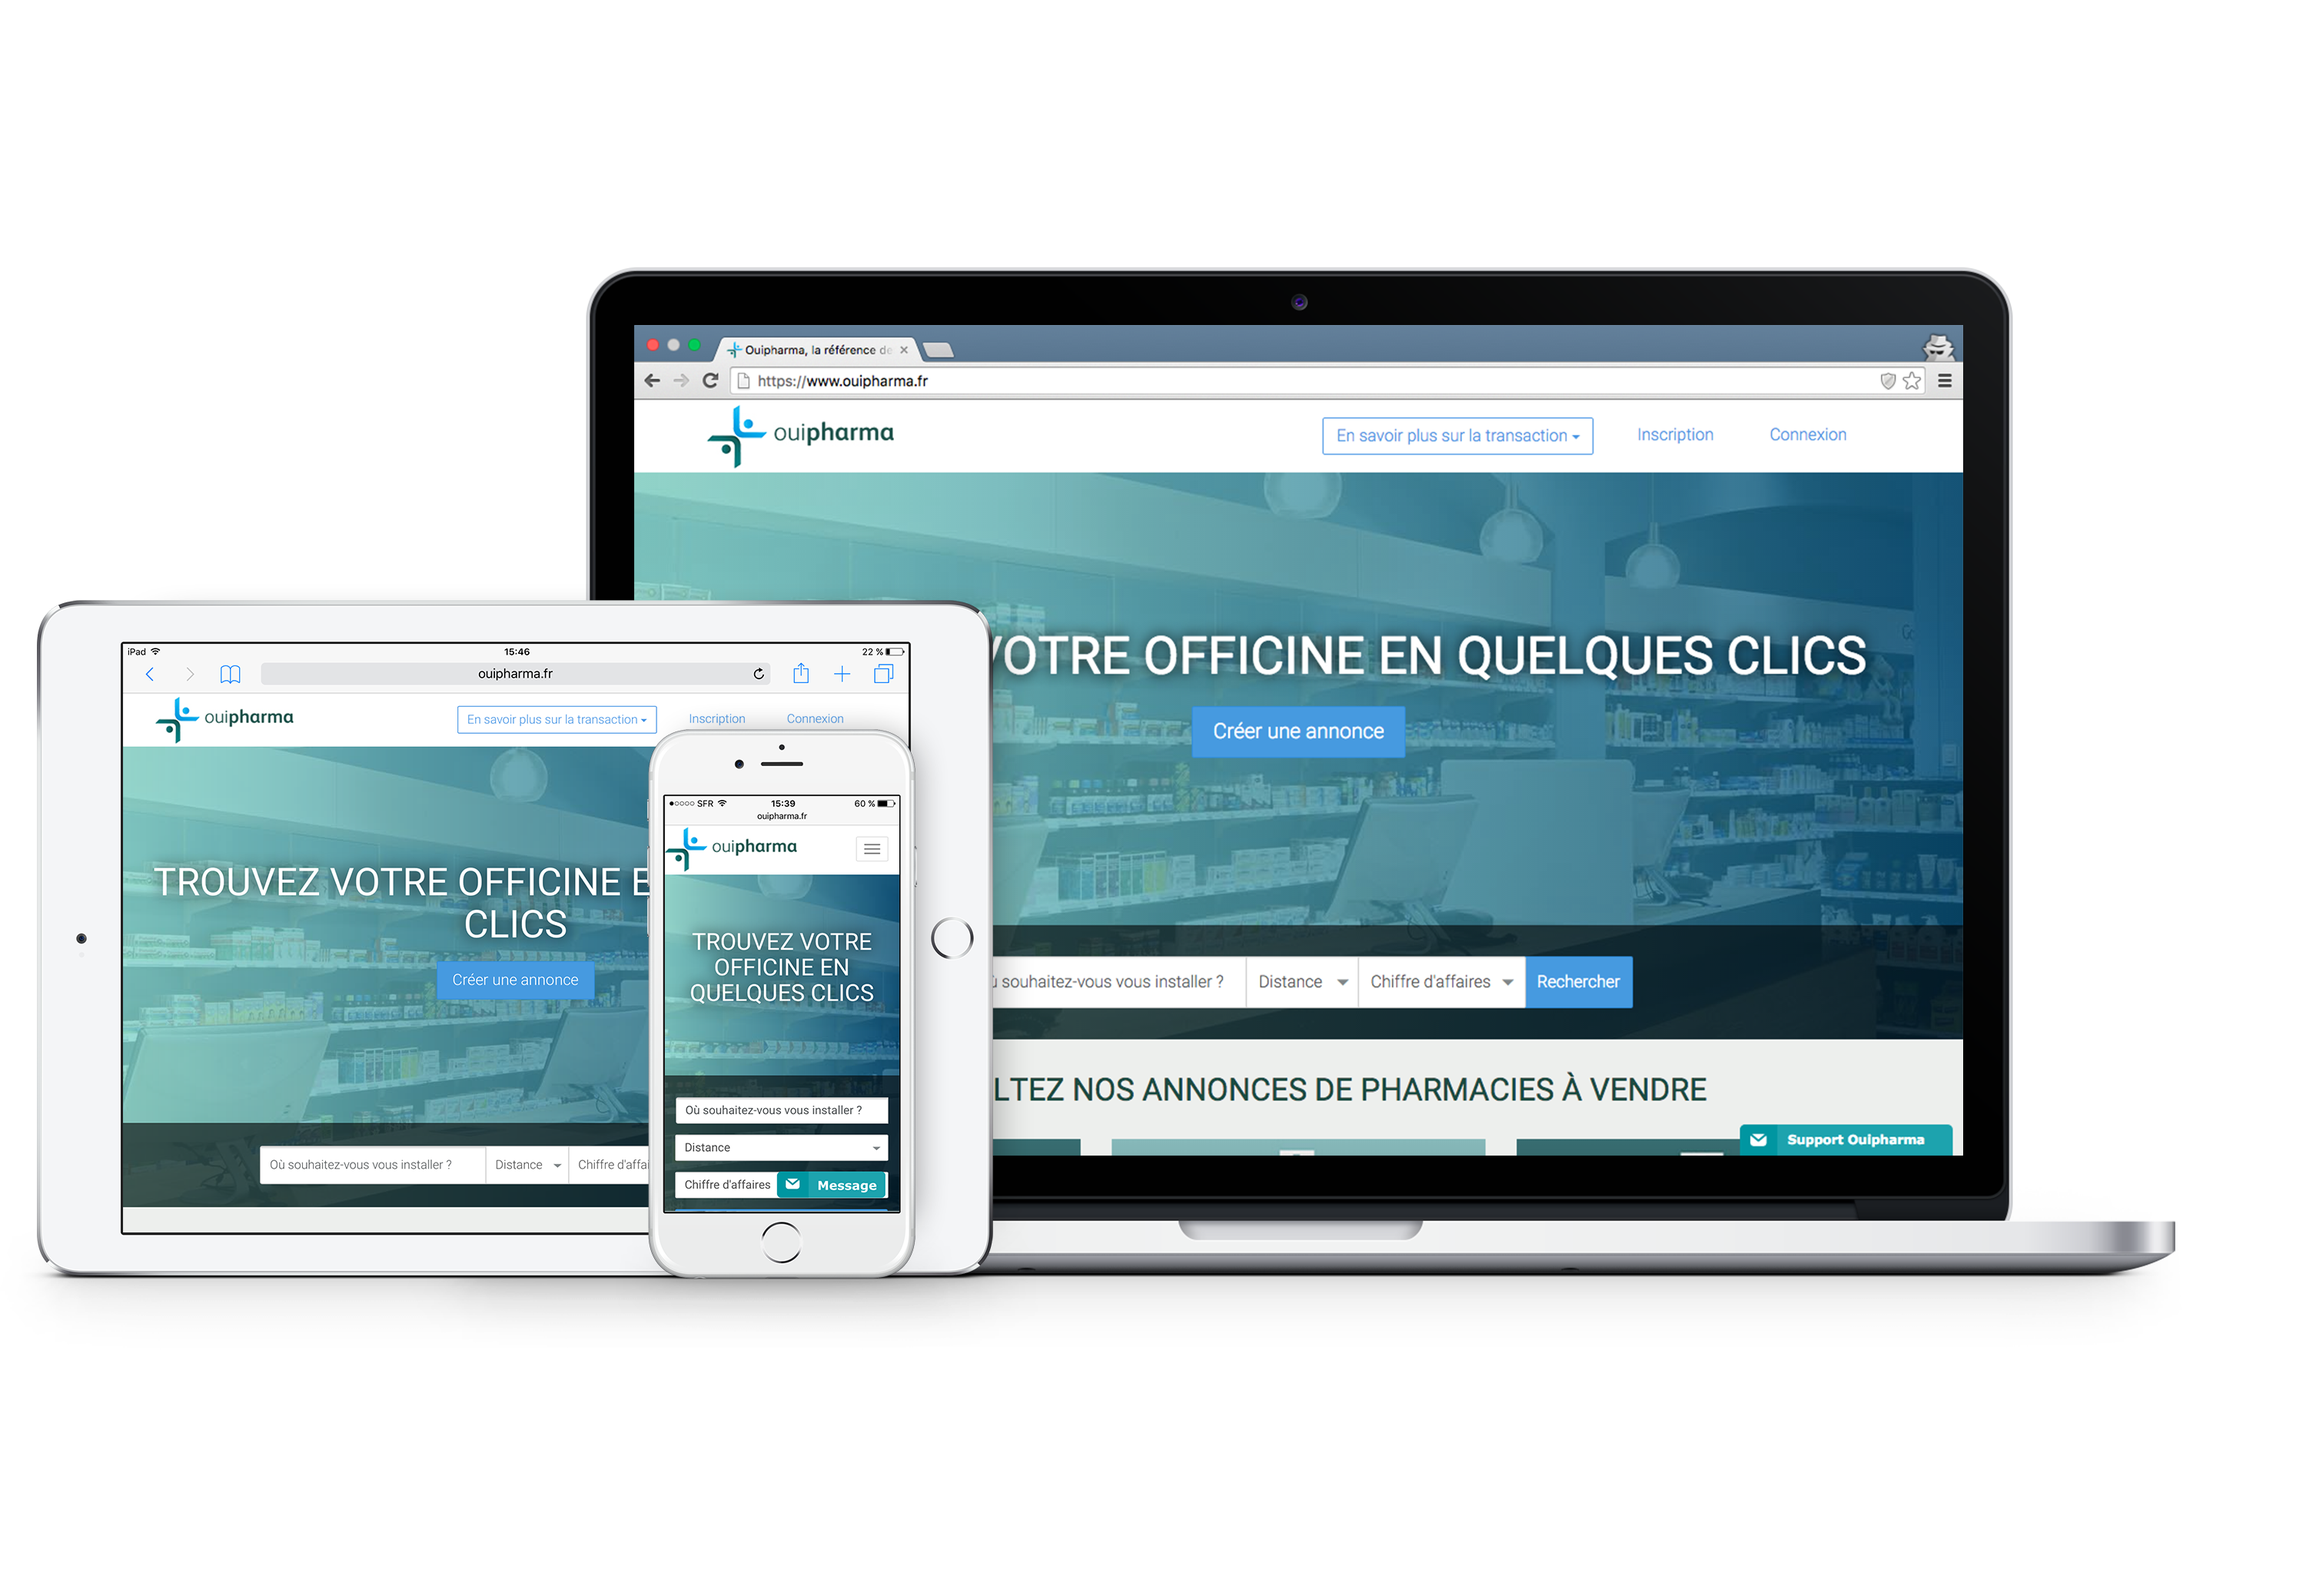
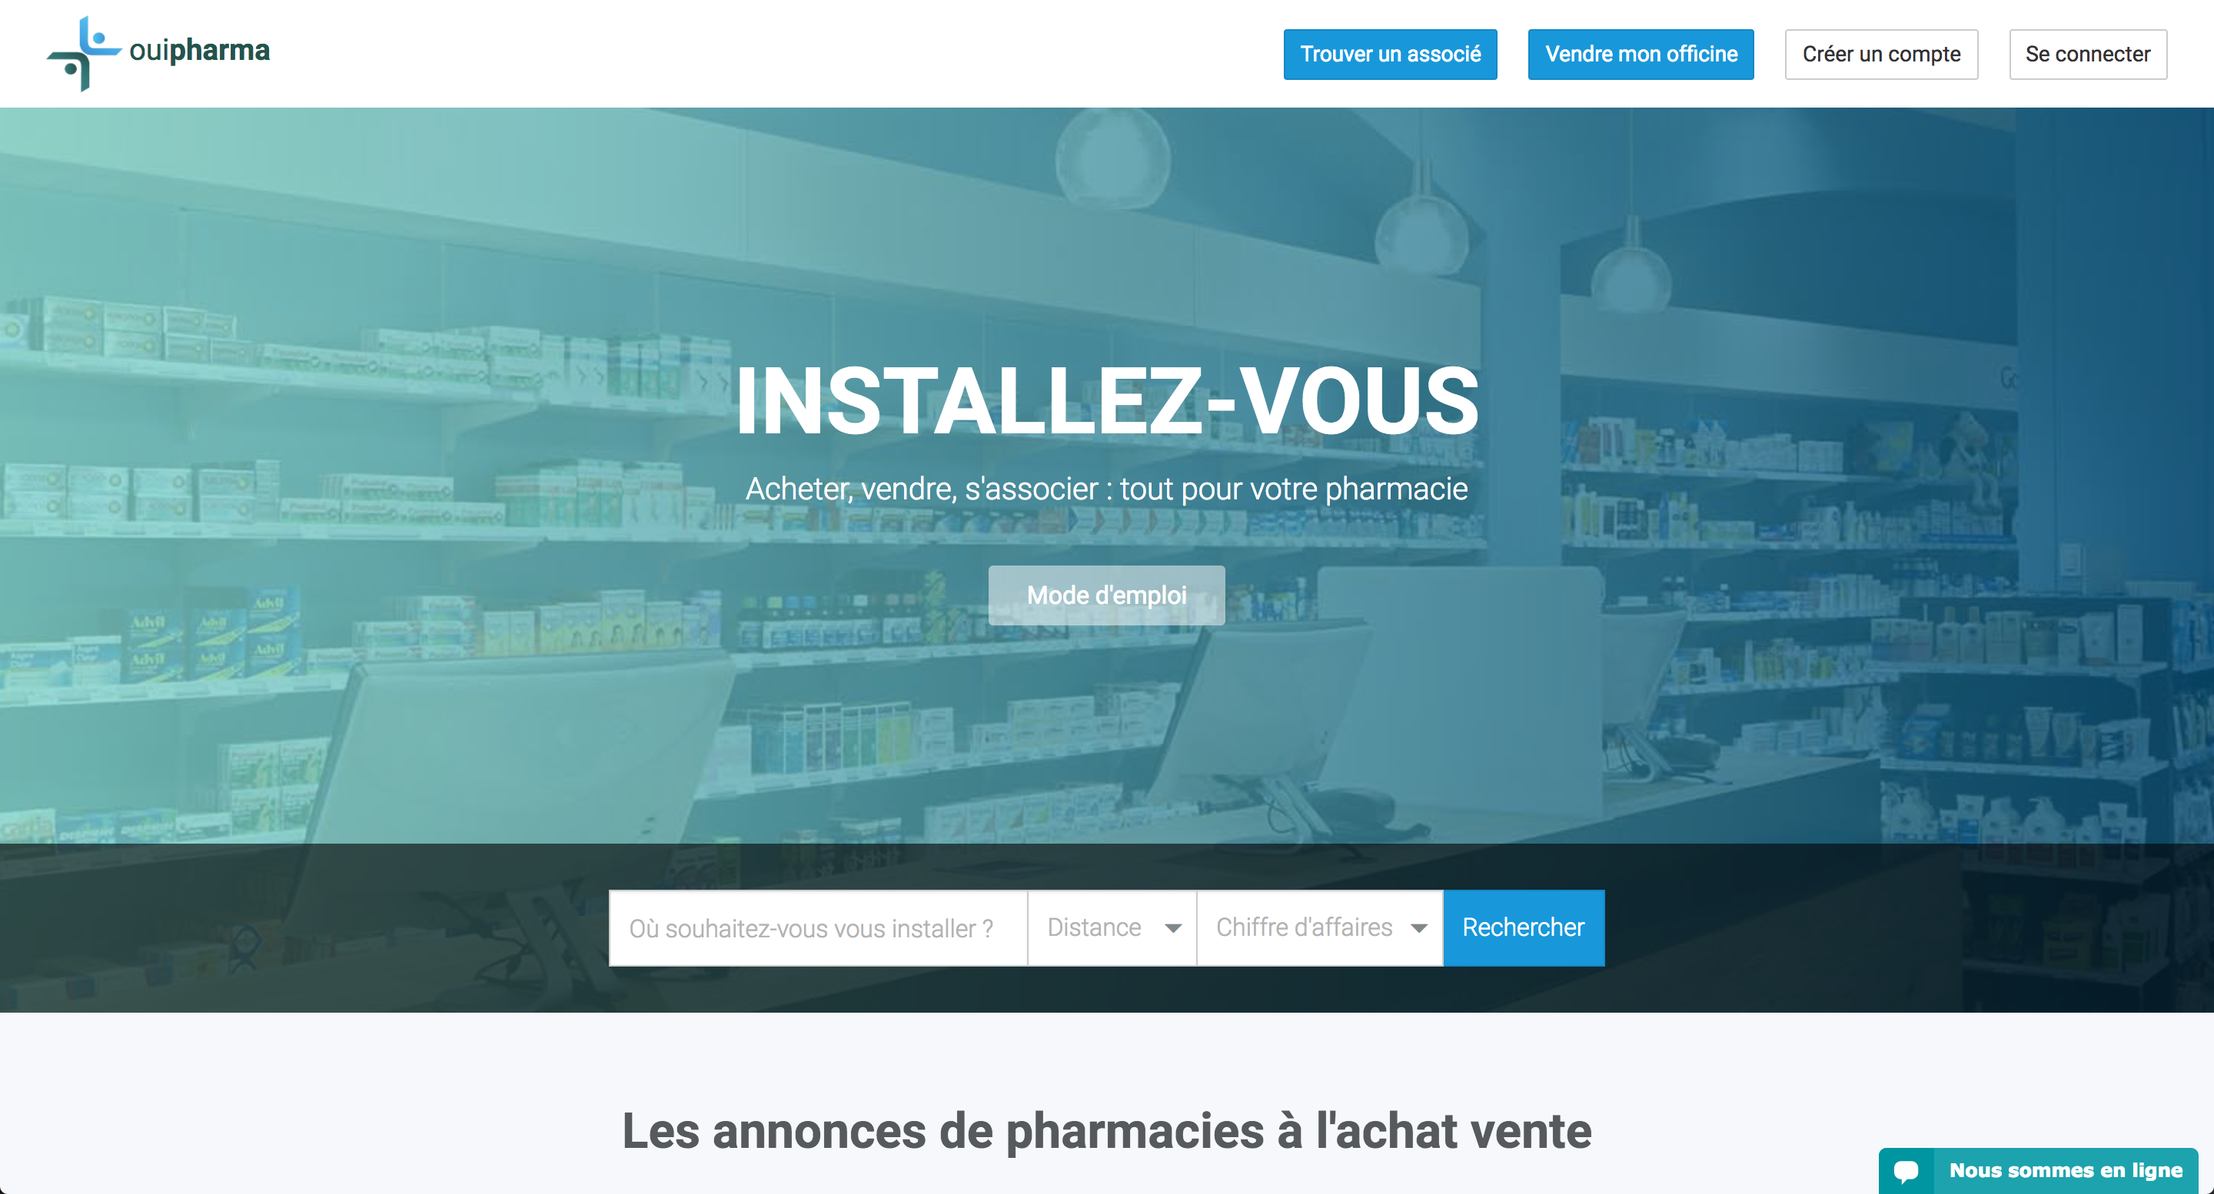
added ouipharma

diff --git a/index.html b/index.html
@@ -84,7 +84,26 @@
             <div class="projproject-content-content">
               Création du Guide 95° <br>
               Développement web, intégration.
+              * Ruby on Rails / HTML / SCSS / JAVASCRIPT *
             </div>
+          </div>
+        </div>
+      </div>
+      <div class="row project-box">
+        <div class="col-md-4">
+          <div class="project-content">
+            <div class="project-content-title">
+              Ouipharma
+            </div>
+            <div class="projproject-content-content">
+              Création du site complet <br>
+              Webdesign, Développement web, intégration.
+              * Ruby on Rails / HTML / SCSS / JAVASCRIPT *
+            </div>
+          </div>
+        </div>
+        <div class="col-md-offset-1 col-md-6">
+          <div class="project-img" id="ouipharma">
           </div>
         </div>
       </div>
@@ -146,31 +165,31 @@
   </div> -->
 
 
-<section class="contact" id="contact">
-  <div class="contact-background">
-   <div class="section-title text-center">
-    CONTACT
-  </div>
-  <form action="//formspree.io/florianmaneyrol@gmail.com"
-  method="POST">
-  <input type="text" name="_gotcha" style="display:none" />
-  <div class="form-group">
-    <label for="Nom">NOM</label>
-    <input type="text" class="form-control" name="name" required id="Nom" >
-  </div>
-  <div class="form-group">
-    <label for="Email">EMAIL</label>
-    <input type="email" required class="form-control" name="_replyto" type="email" id="Email" >
-  </div>
-  <div class="form-group">
-    <label for="Message">MESSAGE</label>
-    <textarea name="message" required class="form-control" id="Message" rows="8"></textarea>
-  </div>
-  <div class="form-group text-center">
-    <input type="submit" class="btn btn-ct" value="Envoyer" >
-    <input type="hidden" name="_next" value="//florianmaneyrol.com" />
-  </div>
-</form>
+  <section class="contact" id="contact">
+    <div class="contact-background">
+     <div class="section-title text-center">
+      CONTACT
+    </div>
+    <form action="//formspree.io/florianmaneyrol@gmail.com"
+    method="POST">
+    <input type="text" name="_gotcha" style="display:none" />
+    <div class="form-group">
+      <label for="Nom">NOM</label>
+      <input type="text" class="form-control" name="name" required id="Nom" >
+    </div>
+    <div class="form-group">
+      <label for="Email">EMAIL</label>
+      <input type="email" required class="form-control" name="_replyto" type="email" id="Email" >
+    </div>
+    <div class="form-group">
+      <label for="Message">MESSAGE</label>
+      <textarea name="message" required class="form-control" id="Message" rows="8"></textarea>
+    </div>
+    <div class="form-group text-center">
+      <input type="submit" class="btn btn-ct" value="Envoyer" >
+      <input type="hidden" name="_next" value="//florianmaneyrol.com" />
+    </div>
+  </form>
 </div>
 </section>
 <footer class="footer text-center">

diff --git a/style.css b/style.css
@@ -758,6 +758,25 @@ label {
   transform:scale(1.05);
 }
 
+#ouipharma {
+  background: url('images/ouipharma.png');
+  background-size: cover;
+  background-position: 45%;
+  -webkit-transition: all 1s ease;
+  -moz-transition: all 1s ease;
+  -ms-transition: all 1s ease;
+  -o-transition: all 1s ease;
+  transition: all 1s ease;
+}
+
+#ouipharma:hover {
+  -webkit-transform:scale(1.05);
+  -moz-transform:scale(1.05);
+  -ms-transform:scale(1.05);
+  -o-transform:scale(1.05);
+  transform:scale(1.05);
+}
+
 .scroll-arrow {
   position: absolute;
   background-color: #FFF;
